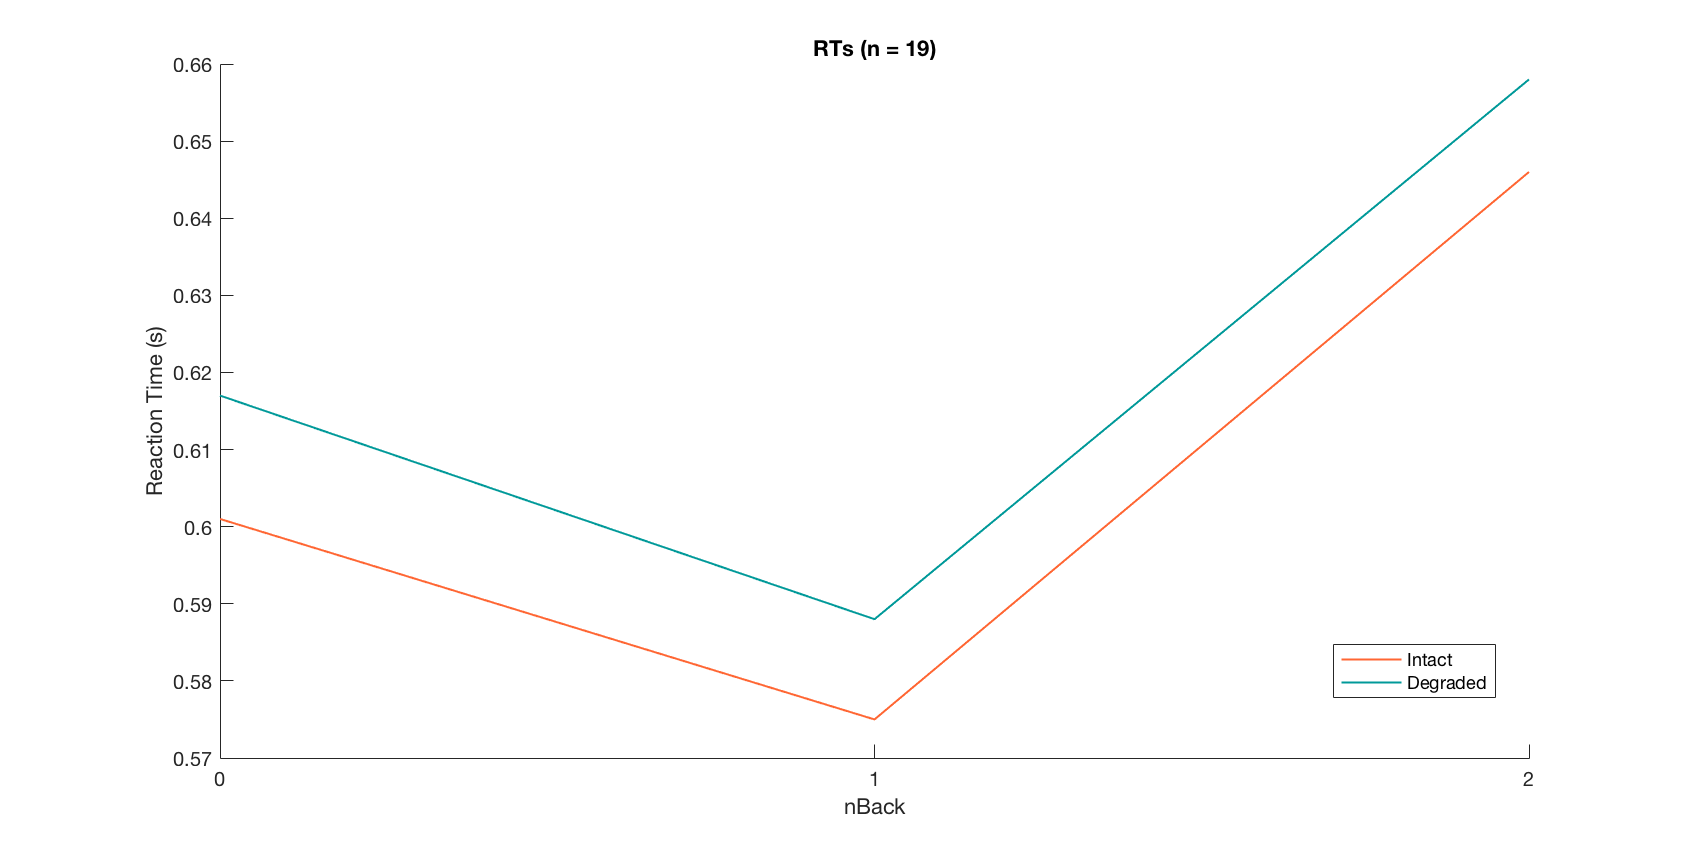
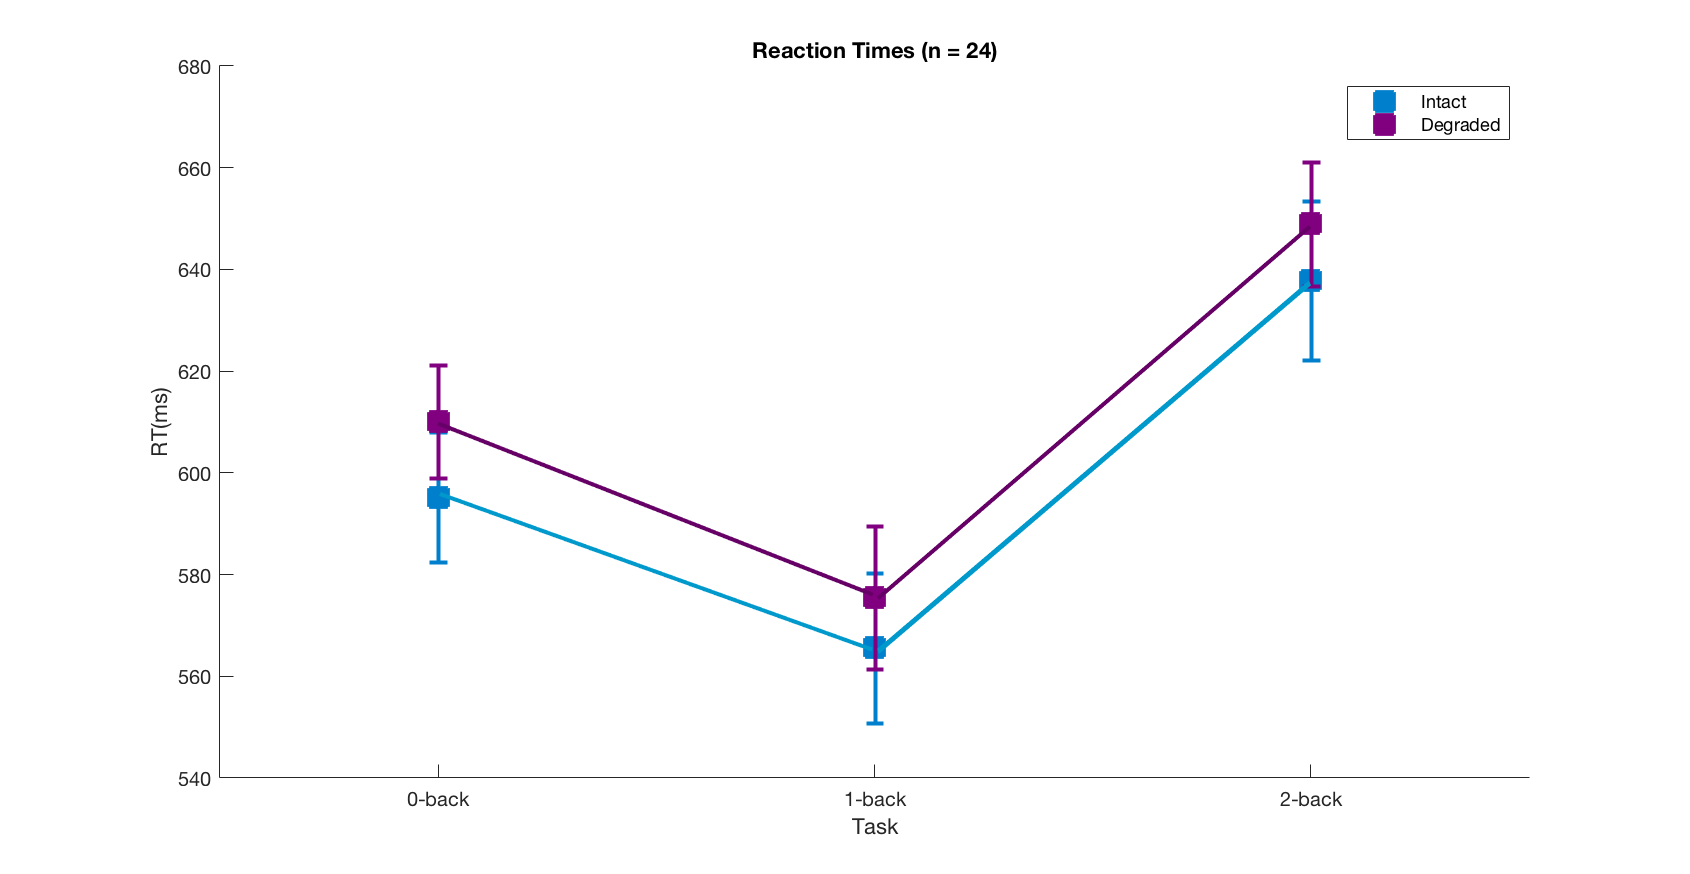
new figures

diff --git a/analysis/plot_Acc.m b/analysis/plot_Acc.m
@@ -1,0 +1,27 @@
+% Read in file  
+T = readtable('output.txt','Delimiter', ',', 'Format', '%.3f %.3f %.3f %.3f %.3f %.3f %.3f %.3f %.3f %.3f %.3f %.3f');
+
+figure; hold('on')
+
+x = 1:1:3;
+
+% Get the mean RTs and round, and multiply by 100 to turn into percentage.
+y0 = [round(mean(T.Acc00*100),3) round(mean(T.Acc10*100),3) round(mean(T.Acc20*100),3)]; 
+err = [(std(T.Acc00*100)/sqrt(24)) (std(T.Acc10*100)/sqrt(24)) (std(T.Acc20*100)/sqrt(24))];
+p1 = errorbar(x, y0, err, 's', 'MarkerSize',12, 'MarkerEdgeColor',[0,.5,.8], 'MarkerFaceColor',[0,.5,.8]);
+set(p1,'Color',[0,.5,.8],'LineWidth', 2);
+
+y1 = [round(mean(T.Acc01*100),3) round(mean(T.Acc11*100),3) round(mean(T.Acc21*100),3)]; 
+err = [(std(T.Acc01*100)/sqrt(24)) (std(T.Acc11*100)/sqrt(24)) (std(T.Acc21*100)/sqrt(24))];
+p2 = errorbar(x, y1, err, 's', 'MarkerSize',12, 'MarkerEdgeColor',[.5,0,.5], 'MarkerFaceColor',[.5,0,.5]);
+set(p2,'Color',[.5,0,.5],'LineWidth', 2);
+
+
+
+legend('Intact','Degraded')
+set(gca, 'xtick', 1:3,...
+    'xticklabels',{'0-back','1-back','2-back'})
+xlabel('Task')
+ylabel('Accuracy (% correct)')
+
+return

diff --git a/analysis/plot_RTs.m b/analysis/plot_RTs.m
@@ -1,0 +1,27 @@
+% Read in file  
+T = readtable('output.txt','Delimiter', ',', 'Format', '%.3f %.3f %.3f %.3f %.3f %.3f %.3f %.3f %.3f %.3f %.3f %.3f');
+
+figure; hold('on')
+
+x = 1:1:3;
+
+% Get the mean RTs and round, then multiply by 1000 to turn into ms.
+y0 = [round(mean(T.RT00*1000),3) round(mean(T.RT10*1000),3) round(mean(T.RT20*1000),3)]; 
+err = [(std(T.RT00*1000)/sqrt(24)) (std(T.RT10*1000)/sqrt(24)) (std(T.RT20*1000)/sqrt(24))];
+p1 = errorbar(x, y0, err, 's', 'MarkerSize',12, 'MarkerEdgeColor',[0,.5,.8], 'MarkerFaceColor',[0,.5,.8]);
+set(p1,'Color',[0,.5,.8],'LineWidth', 2);
+
+y1 = [round(mean(T.RT01*1000),3) round(mean(T.RT11*1000),3) round(mean(T.RT21*1000),3)]; 
+err = [(std(T.RT01*1000)/sqrt(24)) (std(T.RT11*1000)/sqrt(24)) (std(T.RT21*1000)/sqrt(24))];
+p2 = errorbar(x, y1, err, 's', 'MarkerSize',12, 'MarkerEdgeColor',[.5,0,.5], 'MarkerFaceColor',[.5,0,.5]);
+set(p2,'Color',[.5,0,.5],'LineWidth', 2);
+
+
+
+legend('Intact','Degraded')
+set(gca, 'xtick', 1:3,...
+    'xticklabels',{'0-back','1-back','2-back'})
+xlabel('Task')
+ylabel('RT(ms)')
+
+return

diff --git a/analysis/RepMeasErr.m b/analysis/RepMeasErr.m
@@ -1,0 +1,3 @@
+function err = RepMeasErr(X)
+
+err = std(X - repmat(mean(X,2), 1, size(X,2))) ./ sqrt(size(X,1))
